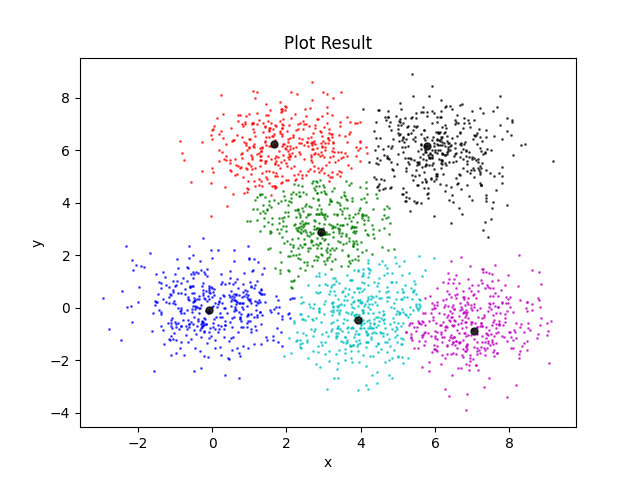
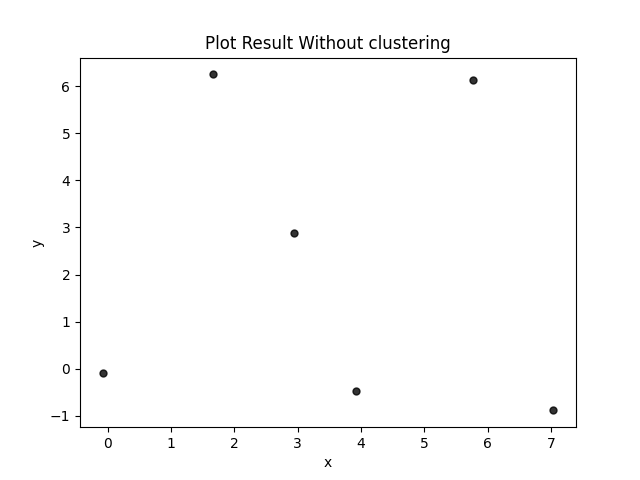
update plot functionn

diff --git a/visualization/DPC-test.py b/visualization/DPC-test.py
@@ -9,9 +9,39 @@ import matplotlib.pyplot as plt
 import data_process
 from algorithms.DensityPeakCluster import DensityPeakCluster
 
-
 TEST_DATA = '../data/generatePoints_distance.txt'
 COOR_DATA = '../data/generatePoints.txt'
+
+
+def plot_points(center, temp, color, tag):
+    with open(COOR_DATA, 'r', encoding='utf-8') as f:
+        lines = f.readlines()
+        coords = dict()
+        for line in lines:
+            p, x, y = line.strip().split()
+            p, x, y = int(p), float(x), float(y)
+            coords[p] = [x, y]
+    for i in range(len(center)):
+        c = coords[center[i]]
+        plt.plot(c[0], c[1], 'ok', markersize=5, alpha=0.8)
+
+    for p in temp:
+        for i in range(len(center)):
+            c = coords[p[0]]
+            try:
+                # 标号从1开始，故i + 1
+                if p[1] == i + 1 and tag == 2:
+                    plt.scatter(c[0], c[1], c=color[i], alpha=0.6, s=1)
+                else:
+                    plt.scatter(c[0], c[1], c=color[0], alpha=0.6, s=1)
+            except KeyError:
+                raise 'Key map does not exist!'
+
+    plt.xlabel('x')
+    plt.ylabel('y')
+    plt.title('Plot Result')
+    plt.savefig('../images/DPC/generate_data_result_{}.png'.format(tag))
+    plt.show()
 
 
 def main():
@@ -34,47 +64,21 @@ def main():
     print(center)  # [978, 1842, 1522, 438, 2077, 123]
 
     # show each cluster results
-    clust.analysis(center, taginfo, dist, maxid)
+    # clust.analysis(center, taginfo, dist, maxid)
 
     # show cluster distribution info
     temp = sorted(taginfo.items(), key=lambda k: k[1])
-
-    with open(COOR_DATA, 'r', encoding='utf-8') as f:
-        lines = f.readlines()
-        coords = dict()
-        for line in lines:
-            p, x, y = line.strip().split()
-            p, x, y = int(p), float(x), float(y)
-            coords[p] = [x, y]
-    for i in range(len(center)):
-        c = coords[center[i]]
-        plt.plot(c[0], c[1], 'ok', markersize=5, alpha=0.8)
-
     color = {0: 'r', 1: 'b', 2: 'g', 3: 'k', 4: 'c', 5: 'm', 6: 'y'}
-    for p in temp:
-        for i in range(len(center)):
-            c = coords[p[0]]
-            try:
-                # 标号从1开始，故i + 1
-                if p[1] == i + 1:
-                    plt.scatter(c[0], c[1], c=color[i], alpha=0.6, s=1)
-            except KeyError:
-                raise 'Key map does not exist!'
+    plot_points(center, temp, color, 1)
+    plot_points(center, temp, color, 2)
 
-    plt.xlabel('x')
-    plt.ylabel('y')
-    plt.title('Plot Result')
-    plt.savefig('../images/DPC/generate_data_result.png')
-    plt.close()
-
-    y, x = zip(*temp)
-    plt.scatter(x, y)
-    plt.xlabel('Cluster Number')
-    plt.ylabel('Point Number')
-    plt.title(r'$d_c=$' + str(threshold))
-    plt.savefig('../images/DPC/generate_data_cluster_cutoff_test.png')
+    # y, x = zip(*temp)
+    # plt.scatter(x, y)
+    # plt.xlabel('Cluster Number')
+    # plt.ylabel('Point Number')
+    # plt.title(r'$d_c=$' + str(threshold))
+    # plt.savefig('../images/DPC/generate_data_cluster_cutoff_test.png')
 
 
 if __name__ == '__main__':
     main()
-

diff --git a/scripts/HC-main.py b/scripts/HC-main.py
@@ -14,7 +14,6 @@ from sklearn.cluster import AgglomerativeClustering
 
 import pandas as pd
 
-
 dataset = dict()
 with open('../data/generatePoints.txt', 'r') as data:
     for line in data:
@@ -27,14 +26,12 @@ dataset = list(dataset.values())
 data_scaled = normalize(dataset)
 data_scaled = pd.DataFrame(data_scaled)
 
-
 plt.figure(figsize=(10, 7))
 plt.title("Dendrograms1")
 dend = shc.dendrogram(shc.linkage(data_scaled, method='ward'))
 plt.axhline(y=6, color='r', linestyle='--')
 plt.savefig('../images/HC/result_1.png')
 plt.show()
-
 
 cluster = AgglomerativeClustering(n_clusters=6, linkage='ward')  # 直接调用算法
 cluster.fit_predict(data_scaled)
@@ -46,4 +43,3 @@ x, y = zip(*dataset)
 plt.scatter(x, y, c=cluster.labels_)
 plt.savefig('../images/HC/result_2.png')
 plt.show()
-

diff --git a/scripts/DPC-main.py b/scripts/DPC-main.py
@@ -9,9 +9,14 @@ import matplotlib.pyplot as plt
 import data_process
 from algorithms.DensityPeakCluster import DensityPeakCluster
 
-# pycharm 路径设置../ vscode 路径设置 ./
-GIVEN_DATA = '../data/example_distances.dat'  # 为了方便可以直接用绝对路径
+# pycharm 路径设置../  ;vscode 路径设置 ./ 为了方便可以直接用绝对路径
+# pycharm use
+GIVEN_DATA = '../data/example_distances.dat'
+# vscode use
+# GIVEN_DATA = 'F:\ML-clustering\data\example_distances.dat'
 
+
+# print(os.getcwd())  # 用来查看当前终端默认目录
 
 def main():
     solution = data_process.ProcessData()
